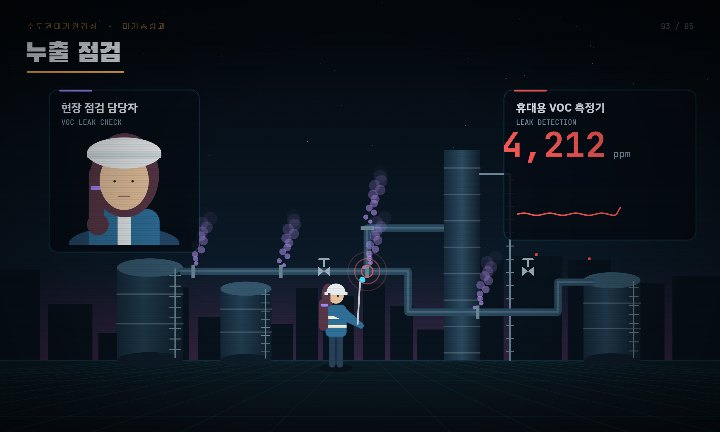
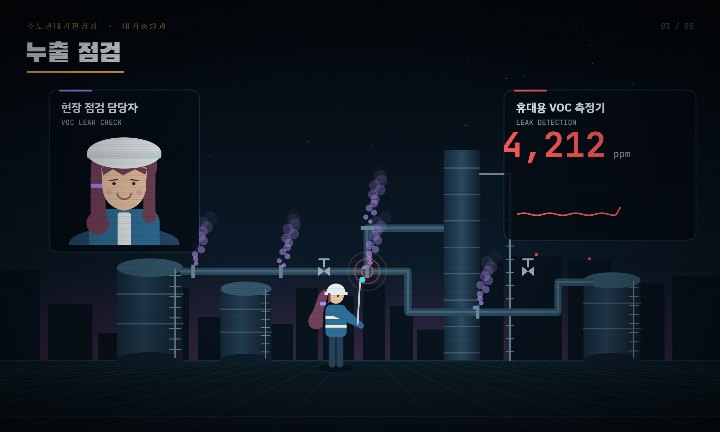
Make HAPs female inspector clearer

diff --git a/assets/site-v3.js b/assets/site-v3.js
@@ -9,13 +9,13 @@ function select(key,force=false){const topic=byTopic[key]||byTopic['sift-ms'],de
  tabs.forEach(tab=>{const active=tab.dataset.target===dept.id;tab.setAttribute('aria-selected',String(active));tab.tabIndex=active?0:-1});$('department-panel').setAttribute('aria-labelledby','tab-'+dept.id);$('topic-heading').textContent=dept.dept+' 업무 골라보기';
  if($('topic-list').dataset.dept!==dept.id){$('topic-list').dataset.dept=dept.id;$('topic-list').replaceChildren(...dept.topics.map((id,i)=>{const item=byTopic[id],b=document.createElement('button');b.className='topic';b.type='button';b.dataset.topic=id;b.innerHTML=`<span class="topic-no">0${i+1} / 30s</span><strong>${item.title}</strong><span class="topic-desc">${item.desc}</span><span class="topic-action">영상 보기 <span aria-hidden="true">↗</span></span>`;b.onclick=()=>{if(selected!==id)location.hash=id};return b}))}
  document.querySelectorAll('.topic').forEach(b=>b.setAttribute('aria-pressed',String(b.dataset.topic===topic.id)));
- frame.title=topic.title+' 30초 애니메이션';for(const id of['open-lesson','fallback-link'])$(id).href=topic.file+'?v=22';
- if(changed||force){loading();frame.src=topic.file+'?embed=1&v=22'}
+ frame.title=topic.title+' 30초 애니메이션';for(const id of['open-lesson','fallback-link'])$(id).href=topic.file+'?v=23';
+ if(changed||force){loading();frame.src=topic.file+'?embed=1&v=23'}
 }
 tabs.forEach((tab,i)=>{tab.onclick=()=>{location.hash=byDept[tab.dataset.target].topics[0]};tab.onkeydown=e=>{let next;if(e.key==='ArrowRight'||e.key==='ArrowLeft')next=(i+(e.key==='ArrowRight'?1:-1)+tabs.length)%tabs.length;else if(e.key==='Home')next=0;else if(e.key==='End')next=tabs.length-1;else return;e.preventDefault();tabs[next].focus();tabs[next].click()}});
 window.addEventListener('hashchange',()=>{if(location.hash!=='#lessons')select(resolve())});
 window.addEventListener('message',event=>{if(event.origin!==location.origin||event.source!==frame.contentWindow||event.data?.type!=='mamo-lesson-size')return;const h=Number(event.data.height);if(!Number.isFinite(h)||h<100||h>6000)return;frame.style.height=Math.ceil(h)+'px';clearTimeout(timer);$('loading').hidden=true;$('load-error').hidden=true;frame.hidden=false;$('viewer').setAttribute('aria-busy','false')});
-frame.addEventListener('load',()=>{const doc=frame.contentDocument;if(!doc||doc.getElementById('compact-player-style'))return;const link=doc.createElement('link');link.id='compact-player-style';link.rel='stylesheet';link.href='assets/compact-player.css?v=22';doc.head.append(link);const friendly=doc.createElement('link');friendly.rel='stylesheet';friendly.href='assets/friendly-player.css?v=22';doc.head.append(friendly);const reading=doc.createElement("link");reading.rel="stylesheet";reading.href="assets/readability.css?v=22";doc.head.append(reading)});
+frame.addEventListener('load',()=>{const doc=frame.contentDocument;if(!doc||doc.getElementById('compact-player-style'))return;const link=doc.createElement('link');link.id='compact-player-style';link.rel='stylesheet';link.href='assets/compact-player.css?v=23';doc.head.append(link);const friendly=doc.createElement('link');friendly.rel='stylesheet';friendly.href='assets/friendly-player.css?v=23';doc.head.append(friendly);const reading=doc.createElement("link");reading.rel="stylesheet";reading.href="assets/readability.css?v=23";doc.head.append(reading)});
 $('retry').onclick=()=>select(selected,true);select(resolve(),true);
 
 // 음성 해설: 영상(iframe)이 장면마다 보내는 음성을 이 창에서 재생한다.
@@ -27,4 +27,4 @@ window.addEventListener('message',e=>{if(e.origin!==location.origin||e.source!==
 frame.addEventListener('load',()=>voice.pause());window.addEventListener('hashchange',()=>voice.pause())})();
 
 // 읽기 모드 링크를 지금 보고 있는 업무로 맞춘다.
-(()=>{const a=document.getElementById('read-mode');if(!a)return;const sync=()=>{const id=location.hash.slice(1);a.href='m.html?v=22'+(id&&id!=='lessons'?'#'+(id==='emissions'?'integrated':id):'')};window.addEventListener('hashchange',sync);sync()})();
+(()=>{const a=document.getElementById('read-mode');if(!a)return;const sync=()=>{const id=location.hash.slice(1);a.href='m.html?v=23'+(id&&id!=='lessons'?'#'+(id==='emissions'?'integrated':id):'')};window.addEventListener('hashchange',sync);sync()})();

diff --git a/m.html b/m.html
@@ -88,12 +88,12 @@ button:focus-visible,a:focus-visible{outline:3px solid #3267a2;outline-offset:3p
   </section>
   <section class="film" aria-label="선택한 업무의 30초 영상">
     <div class="filmhead"><strong id="filmTitle">30초 영상</strong><a id="openVideo" href="sift-ms.html" target="_blank" rel="noopener">전체 화면으로 보기 ↗</a></div>
-    <iframe id="film" src="sift-ms.html?embed=1&amp;v=22" title="기획과 30초 영상" loading="eager"></iframe>
+    <iframe id="film" src="sift-ms.html?embed=1&amp;v=23" title="기획과 30초 영상" loading="eager"></iframe>
   </section>
   <nav class="more" aria-label="다음 업무" id="more"></nav>
   <p class="note">그림 속 지도·사업장·농도·측정값은 이해를 돕기 위한 예시입니다. 음성은 AI 합성 음성입니다.<br><a id="source" href="https://mcee.go.kr/mamo/web/index.do?menuId=656" target="_blank" rel="noopener">선택한 업무의 공식 자료 ↗</a></p>
 </main>
-<script src="assets/catalog.js?v=22"></script>
+<script src="assets/catalog.js?v=23"></script>
 
 <script>
 (() => {
@@ -112,11 +112,11 @@ function render(){let id=location.hash.slice(1);if(id==='inventory')id='mobile-a
  document.querySelectorAll('.dept').forEach(b=>{const on=b.dataset.dept===d.id;b.setAttribute('aria-selected',String(on));b.tabIndex=on?0:-1});
  $('chips').replaceChildren(...d.topics.map(tid=>{const b=document.createElement('button');b.className='chip';b.type='button';b.textContent=plain(byTopic[tid].title);b.setAttribute('aria-pressed',String(tid===id));b.onclick=()=>go(tid);return b}));
  $('deptName').textContent=d.dept;$('title').textContent=plain(t.title);$('desc').textContent=t.desc;$('source').href=t.source;
- $('filmTitle').textContent='30초 · '+plain(t.title);$('openVideo').href=t.file+'?v=22';frame.title=plain(t.title)+' 30초 영상';frame.src=t.file+'?embed=1&v=22';frame.style.height='710px';
+ $('filmTitle').textContent='30초 · '+plain(t.title);$('openVideo').href=t.file+'?v=23';frame.title=plain(t.title)+' 30초 영상';frame.src=t.file+'?embed=1&v=23';frame.style.height='710px';
  const nx=order[(order.indexOf(id)+1)%order.length],nt=byTopic[nx];$('more').replaceChildren();const a=document.createElement('a');a.className='next';a.href='#'+nx;a.innerHTML=`<small>다음 업무 · ${byDept[nt.dept].dept}</small><b></b>`;a.querySelector('b').textContent=plain(nt.title)+' →';$('more').append(a);
  window.scrollTo(0,0)
 }
-frame.addEventListener('load',()=>{const doc=frame.contentDocument;if(!doc)return;for(const name of ['compact-player.css','friendly-player.css','readability.css']){const link=doc.createElement('link');link.rel='stylesheet';link.href='assets/'+name+'?v=22';doc.head.append(link)}});
+frame.addEventListener('load',()=>{const doc=frame.contentDocument;if(!doc)return;for(const name of ['compact-player.css','friendly-player.css','readability.css']){const link=doc.createElement('link');link.rel='stylesheet';link.href='assets/'+name+'?v=23';doc.head.append(link)}});
 window.addEventListener('message',e=>{if(e.origin!==location.origin||e.source!==frame.contentWindow||e.data?.type!=='mamo-lesson-size')return;const h=Number(e.data.height);if(Number.isFinite(h)&&h>100&&h<6000)frame.style.height=Math.ceil(h)+'px'});
 window.addEventListener('hashchange',render);render();
 })();

diff --git a/haps.html b/haps.html
@@ -163,10 +163,10 @@ function person(x, y, s = 1, o = {}) { c.save(); c.translate(x, y); c.scale(o.fl
   else if (pose === 'tablet') { line(-8, -58, 14, -44, vest, 6); line(8, -58, 18, -46, vest, 6); box(10, -56, 20, 15, '#0d1b28', 3, A, 1.5); alpha(.6 + .4 * Math.sin(now * 5), () => c.fillRect(13, -53, 14, 9)) }
   else if (pose === 'probe') { line(-8, -58, 22, -44, vest, 6); line(8, -58, 26, -42, vest, 6) }
   else { line(-8, -58, -10 - sw * .6, -36, vest, 6); line(8, -58, 10 + sw * .6, -36, vest, 6) }
-  if (o.woman) { ell(-8, -74, 7, 12, '#593748'); box(-18, -70, 10, 29, '#593748', 5); circ(-13, -42, 5, '#593748'); box(-16, -65, 8, 3, '#a58bff', 2) }
+  if (o.woman) { c.fillStyle = '#75415a'; c.beginPath(); c.moveTo(-7, -80); c.bezierCurveTo(-22, -81, -19, -62, -27, -53); c.bezierCurveTo(-33, -42, -23, -34, -14, -41); c.bezierCurveTo(-12, -46, -15, -54, -12, -61); c.closePath(); c.fill(); box(-17, -67, 7, 4, '#a58bff', 2) }
   circ(0, -73, 8, '#e8c4a0'); if (o.helmet !== false) { c.fillStyle = o.hat || '#f5c542'; c.beginPath(); c.arc(0, -76, 10, Math.PI, 0); c.fill(); c.fillRect(-12, -77, 24, 3) }
-  if (o.woman) { line(-7, -75, -7, -67, '#593748', 2.5); circ(2, -73, 1, '#332927') }
   else { c.fillStyle = '#2a2320'; c.beginPath(); c.arc(0, -76, 9, Math.PI, 0); c.fill() }
+  if (o.woman) { line(-7, -75, -7, -67, '#75415a', 2.5); circ(2, -73, 1, '#332927') }
   c.lineCap = 'butt'; c.restore() }
 function van(x, y, s = 1, o = {}) { c.save(); c.translate(x, y); c.scale(s, s); const now = o.now || 0;
   if (o.beam) { c.globalCompositeOperation = 'lighter'; c.fillStyle = grad(300, 0, 700, 0, [[0, 'rgba(220,240,255,.28)'], [1, 'rgba(220,240,255,0)']]); poly([[300, -62], [740, -120], [740, 30], [300, -46]], c.fillStyle); c.globalCompositeOperation = 'source-over' }
@@ -315,13 +315,16 @@ function inspectorPortrait(u) {
     ell(207, 406, 92, 28, '#244969');
     box(148, 348, 118, 95, '#2f6f9a', 22);
     box(196, 354, 22, 56, '#e8edf0', 4);
-    ell(208, 292, 57, 70, '#593748');
-    box(148, 278, 25, 106, '#593748', 12);
-    circ(163, 374, 18, '#593748');
-    box(151, 310, 22, 7, '#a58bff', 3);
-    ell(207, 301, 41, 49, '#e8c4a0');
-    circ(191, 302, 2, '#332927'); circ(221, 302, 2, '#332927');
-    line(198, 327, 216, 327, '#9f6a62', 2);
+    ell(207, 276, 55, 43, '#75415a');
+    box(151, 274, 25, 105, '#75415a', 12); circ(163, 372, 19, '#75415a');
+    box(239, 274, 20, 92, '#75415a', 10); circ(249, 359, 12, '#75415a');
+    box(151, 306, 22, 7, '#a58bff', 3);
+    c.beginPath(); c.moveTo(169, 280); c.quadraticCurveTo(207, 266, 245, 280); c.lineTo(243, 317); c.quadraticCurveTo(237, 346, 207, 351); c.quadraticCurveTo(177, 346, 171, 317); c.closePath(); c.fillStyle = '#ecc5a5'; c.fill();
+    poly([[170, 281],[185, 270],[204, 281],[218, 270],[245, 282],[242, 291],[225, 282],[205, 292],[188, 282],[172, 292]], '#75415a');
+    line(183, 301, 196, 299, '#573646', 2); line(217, 299, 230, 301, '#573646', 2);
+    circ(190, 306, 2.7, '#332927'); circ(223, 306, 2.7, '#332927');
+    circ(181, 320, 5, 'rgba(218,130,128,.38)'); circ(232, 320, 5, 'rgba(218,130,128,.38)');
+    c.beginPath(); c.arc(207, 320, 12, .18, Math.PI - .18); c.strokeStyle = '#9e5b5a'; c.lineWidth = 2.5; c.stroke();
     ell(207, 255, 62, 26, '#e9eef0');
     box(145, 254, 124, 10, '#d4e0e5', 4);
     c.restore();

diff --git a/index.html b/index.html
@@ -7,9 +7,9 @@
   <meta name="description" content="첨단감시장비 활용 대기배출원관리와 굴뚝 시료 채취·분석. 수도권대기환경청 4개 과의 대표 업무를 애니메이션으로 만나보세요.">
   <title>첨단감시장비 활용 대기배출원관리 | 수도권대기환경청</title>
   <link rel="icon" href="assets/favicon.svg" type="image/svg+xml">
-  <link rel="stylesheet" href="assets/site.css?v=22"><link rel="stylesheet" href="assets/topics.css?v=22">
-  <script src="assets/catalog.js?v=22" defer></script><script src="assets/site-v3.js?v=22" defer></script>
-<link rel="stylesheet" href="assets/compact.css?v=22"><link rel="stylesheet" href="assets/friendly.css?v=22">
+  <link rel="stylesheet" href="assets/site.css?v=23"><link rel="stylesheet" href="assets/topics.css?v=23">
+  <script src="assets/catalog.js?v=23" defer></script><script src="assets/site-v3.js?v=23" defer></script>
+<link rel="stylesheet" href="assets/compact.css?v=23"><link rel="stylesheet" href="assets/friendly.css?v=23">
 <!-- Link preview: static metadata for KakaoTalk and social crawlers -->
 <meta property="og:type" content="website">
 <meta property="og:locale" content="ko_KR">
@@ -34,7 +34,7 @@
   <div class="site">
     <header class="topbar">
       <a class="brand" href="#sift-ms" aria-label="수도권대기환경청 업무 소개 메인으로">수도권대기환경청 업무 소개</a>
-      <a class="read-mode" id="read-mode" href="m.html?v=22">휴대폰 영상 보기</a><div class="agency"><img src="assets/mamo-logo.png" width="192" height="60" alt="기후에너지환경부 수도권대기환경청"></div>
+      <a class="read-mode" id="read-mode" href="m.html?v=23">휴대폰 영상 보기</a><div class="agency"><img src="assets/mamo-logo.png" width="192" height="60" alt="기후에너지환경부 수도권대기환경청"></div>
     </header>
 
     <main>

diff --git a/tools/cine/engine.js b/tools/cine/engine.js
@@ -116,10 +116,10 @@ function person(x, y, s = 1, o = {}) { c.save(); c.translate(x, y); c.scale(o.fl
   else if (pose === 'tablet') { line(-8, -58, 14, -44, vest, 6); line(8, -58, 18, -46, vest, 6); box(10, -56, 20, 15, '#0d1b28', 3, A, 1.5); alpha(.6 + .4 * Math.sin(now * 5), () => c.fillRect(13, -53, 14, 9)) }
   else if (pose === 'probe') { line(-8, -58, 22, -44, vest, 6); line(8, -58, 26, -42, vest, 6) }
   else { line(-8, -58, -10 - sw * .6, -36, vest, 6); line(8, -58, 10 + sw * .6, -36, vest, 6) }
-  if (o.woman) { ell(-8, -74, 7, 12, '#593748'); box(-18, -70, 10, 29, '#593748', 5); circ(-13, -42, 5, '#593748'); box(-16, -65, 8, 3, '#a58bff', 2) }
+  if (o.woman) { c.fillStyle = '#75415a'; c.beginPath(); c.moveTo(-7, -80); c.bezierCurveTo(-22, -81, -19, -62, -27, -53); c.bezierCurveTo(-33, -42, -23, -34, -14, -41); c.bezierCurveTo(-12, -46, -15, -54, -12, -61); c.closePath(); c.fill(); box(-17, -67, 7, 4, '#a58bff', 2) }
   circ(0, -73, 8, '#e8c4a0'); if (o.helmet !== false) { c.fillStyle = o.hat || '#f5c542'; c.beginPath(); c.arc(0, -76, 10, Math.PI, 0); c.fill(); c.fillRect(-12, -77, 24, 3) }
-  if (o.woman) { line(-7, -75, -7, -67, '#593748', 2.5); circ(2, -73, 1, '#332927') }
   else { c.fillStyle = '#2a2320'; c.beginPath(); c.arc(0, -76, 9, Math.PI, 0); c.fill() }
+  if (o.woman) { line(-7, -75, -7, -67, '#75415a', 2.5); circ(2, -73, 1, '#332927') }
   c.lineCap = 'butt'; c.restore() }
 function van(x, y, s = 1, o = {}) { c.save(); c.translate(x, y); c.scale(s, s); const now = o.now || 0;
   if (o.beam) { c.globalCompositeOperation = 'lighter'; c.fillStyle = grad(300, 0, 700, 0, [[0, 'rgba(220,240,255,.28)'], [1, 'rgba(220,240,255,0)']]); poly([[300, -62], [740, -120], [740, 30], [300, -46]], c.fillStyle); c.globalCompositeOperation = 'source-over' }

diff --git a/education.html b/education.html
@@ -163,8 +163,10 @@ function person(x, y, s = 1, o = {}) { c.save(); c.translate(x, y); c.scale(o.fl
   else if (pose === 'tablet') { line(-8, -58, 14, -44, vest, 6); line(8, -58, 18, -46, vest, 6); box(10, -56, 20, 15, '#0d1b28', 3, A, 1.5); alpha(.6 + .4 * Math.sin(now * 5), () => c.fillRect(13, -53, 14, 9)) }
   else if (pose === 'probe') { line(-8, -58, 22, -44, vest, 6); line(8, -58, 26, -42, vest, 6) }
   else { line(-8, -58, -10 - sw * .6, -36, vest, 6); line(8, -58, 10 + sw * .6, -36, vest, 6) }
+  if (o.woman) { c.fillStyle = '#75415a'; c.beginPath(); c.moveTo(-7, -80); c.bezierCurveTo(-22, -81, -19, -62, -27, -53); c.bezierCurveTo(-33, -42, -23, -34, -14, -41); c.bezierCurveTo(-12, -46, -15, -54, -12, -61); c.closePath(); c.fill(); box(-17, -67, 7, 4, '#a58bff', 2) }
   circ(0, -73, 8, '#e8c4a0'); if (o.helmet !== false) { c.fillStyle = o.hat || '#f5c542'; c.beginPath(); c.arc(0, -76, 10, Math.PI, 0); c.fill(); c.fillRect(-12, -77, 24, 3) }
   else { c.fillStyle = '#2a2320'; c.beginPath(); c.arc(0, -76, 9, Math.PI, 0); c.fill() }
+  if (o.woman) { line(-7, -75, -7, -67, '#75415a', 2.5); circ(2, -73, 1, '#332927') }
   c.lineCap = 'butt'; c.restore() }
 function van(x, y, s = 1, o = {}) { c.save(); c.translate(x, y); c.scale(s, s); const now = o.now || 0;
   if (o.beam) { c.globalCompositeOperation = 'lighter'; c.fillStyle = grad(300, 0, 700, 0, [[0, 'rgba(220,240,255,.28)'], [1, 'rgba(220,240,255,0)']]); poly([[300, -62], [740, -120], [740, 30], [300, -46]], c.fillStyle); c.globalCompositeOperation = 'source-over' }

diff --git a/fuel.html b/fuel.html
@@ -163,8 +163,10 @@ function person(x, y, s = 1, o = {}) { c.save(); c.translate(x, y); c.scale(o.fl
   else if (pose === 'tablet') { line(-8, -58, 14, -44, vest, 6); line(8, -58, 18, -46, vest, 6); box(10, -56, 20, 15, '#0d1b28', 3, A, 1.5); alpha(.6 + .4 * Math.sin(now * 5), () => c.fillRect(13, -53, 14, 9)) }
   else if (pose === 'probe') { line(-8, -58, 22, -44, vest, 6); line(8, -58, 26, -42, vest, 6) }
   else { line(-8, -58, -10 - sw * .6, -36, vest, 6); line(8, -58, 10 + sw * .6, -36, vest, 6) }
+  if (o.woman) { c.fillStyle = '#75415a'; c.beginPath(); c.moveTo(-7, -80); c.bezierCurveTo(-22, -81, -19, -62, -27, -53); c.bezierCurveTo(-33, -42, -23, -34, -14, -41); c.bezierCurveTo(-12, -46, -15, -54, -12, -61); c.closePath(); c.fill(); box(-17, -67, 7, 4, '#a58bff', 2) }
   circ(0, -73, 8, '#e8c4a0'); if (o.helmet !== false) { c.fillStyle = o.hat || '#f5c542'; c.beginPath(); c.arc(0, -76, 10, Math.PI, 0); c.fill(); c.fillRect(-12, -77, 24, 3) }
   else { c.fillStyle = '#2a2320'; c.beginPath(); c.arc(0, -76, 9, Math.PI, 0); c.fill() }
+  if (o.woman) { line(-7, -75, -7, -67, '#75415a', 2.5); circ(2, -73, 1, '#332927') }
   c.lineCap = 'butt'; c.restore() }
 function van(x, y, s = 1, o = {}) { c.save(); c.translate(x, y); c.scale(s, s); const now = o.now || 0;
   if (o.beam) { c.globalCompositeOperation = 'lighter'; c.fillStyle = grad(300, 0, 700, 0, [[0, 'rgba(220,240,255,.28)'], [1, 'rgba(220,240,255,0)']]); poly([[300, -62], [740, -120], [740, 30], [300, -46]], c.fillStyle); c.globalCompositeOperation = 'source-over' }

diff --git a/integrated.html b/integrated.html
@@ -163,8 +163,10 @@ function person(x, y, s = 1, o = {}) { c.save(); c.translate(x, y); c.scale(o.fl
   else if (pose === 'tablet') { line(-8, -58, 14, -44, vest, 6); line(8, -58, 18, -46, vest, 6); box(10, -56, 20, 15, '#0d1b28', 3, A, 1.5); alpha(.6 + .4 * Math.sin(now * 5), () => c.fillRect(13, -53, 14, 9)) }
   else if (pose === 'probe') { line(-8, -58, 22, -44, vest, 6); line(8, -58, 26, -42, vest, 6) }
   else { line(-8, -58, -10 - sw * .6, -36, vest, 6); line(8, -58, 10 + sw * .6, -36, vest, 6) }
+  if (o.woman) { c.fillStyle = '#75415a'; c.beginPath(); c.moveTo(-7, -80); c.bezierCurveTo(-22, -81, -19, -62, -27, -53); c.bezierCurveTo(-33, -42, -23, -34, -14, -41); c.bezierCurveTo(-12, -46, -15, -54, -12, -61); c.closePath(); c.fill(); box(-17, -67, 7, 4, '#a58bff', 2) }
   circ(0, -73, 8, '#e8c4a0'); if (o.helmet !== false) { c.fillStyle = o.hat || '#f5c542'; c.beginPath(); c.arc(0, -76, 10, Math.PI, 0); c.fill(); c.fillRect(-12, -77, 24, 3) }
   else { c.fillStyle = '#2a2320'; c.beginPath(); c.arc(0, -76, 9, Math.PI, 0); c.fill() }
+  if (o.woman) { line(-7, -75, -7, -67, '#75415a', 2.5); circ(2, -73, 1, '#332927') }
   c.lineCap = 'butt'; c.restore() }
 function van(x, y, s = 1, o = {}) { c.save(); c.translate(x, y); c.scale(s, s); const now = o.now || 0;
   if (o.beam) { c.globalCompositeOperation = 'lighter'; c.fillStyle = grad(300, 0, 700, 0, [[0, 'rgba(220,240,255,.28)'], [1, 'rgba(220,240,255,0)']]); poly([[300, -62], [740, -120], [740, 30], [300, -46]], c.fillStyle); c.globalCompositeOperation = 'source-over' }

diff --git a/inventory.html b/inventory.html
@@ -145,8 +145,10 @@ function person(x, y, s = 1, o = {}) { c.save(); c.translate(x, y); c.scale(o.fl
   else if (pose === 'tablet') { line(-8, -58, 14, -44, vest, 6); line(8, -58, 18, -46, vest, 6); box(10, -56, 20, 15, '#0d1b28', 3, A, 1.5); alpha(.6 + .4 * Math.sin(now * 5), () => c.fillRect(13, -53, 14, 9)) }
   else if (pose === 'probe') { line(-8, -58, 22, -44, vest, 6); line(8, -58, 26, -42, vest, 6) }
   else { line(-8, -58, -10 - sw * .6, -36, vest, 6); line(8, -58, 10 + sw * .6, -36, vest, 6) }
+  if (o.woman) { c.fillStyle = '#75415a'; c.beginPath(); c.moveTo(-7, -80); c.bezierCurveTo(-22, -81, -19, -62, -27, -53); c.bezierCurveTo(-33, -42, -23, -34, -14, -41); c.bezierCurveTo(-12, -46, -15, -54, -12, -61); c.closePath(); c.fill(); box(-17, -67, 7, 4, '#a58bff', 2) }
   circ(0, -73, 8, '#e8c4a0'); if (o.helmet !== false) { c.fillStyle = o.hat || '#f5c542'; c.beginPath(); c.arc(0, -76, 10, Math.PI, 0); c.fill(); c.fillRect(-12, -77, 24, 3) }
   else { c.fillStyle = '#2a2320'; c.beginPath(); c.arc(0, -76, 9, Math.PI, 0); c.fill() }
+  if (o.woman) { line(-7, -75, -7, -67, '#75415a', 2.5); circ(2, -73, 1, '#332927') }
   c.lineCap = 'butt'; c.restore() }
 function van(x, y, s = 1, o = {}) { c.save(); c.translate(x, y); c.scale(s, s); const now = o.now || 0;
   if (o.beam) { c.globalCompositeOperation = 'lighter'; c.fillStyle = grad(300, 0, 700, 0, [[0, 'rgba(220,240,255,.28)'], [1, 'rgba(220,240,255,0)']]); poly([[300, -62], [740, -120], [740, 30], [300, -46]], c.fillStyle); c.globalCompositeOperation = 'source-over' }

diff --git a/mobile-air.html b/mobile-air.html
@@ -145,8 +145,10 @@ function person(x, y, s = 1, o = {}) { c.save(); c.translate(x, y); c.scale(o.fl
   else if (pose === 'tablet') { line(-8, -58, 14, -44, vest, 6); line(8, -58, 18, -46, vest, 6); box(10, -56, 20, 15, '#0d1b28', 3, A, 1.5); alpha(.6 + .4 * Math.sin(now * 5), () => c.fillRect(13, -53, 14, 9)) }
   else if (pose === 'probe') { line(-8, -58, 22, -44, vest, 6); line(8, -58, 26, -42, vest, 6) }
   else { line(-8, -58, -10 - sw * .6, -36, vest, 6); line(8, -58, 10 + sw * .6, -36, vest, 6) }
+  if (o.woman) { c.fillStyle = '#75415a'; c.beginPath(); c.moveTo(-7, -80); c.bezierCurveTo(-22, -81, -19, -62, -27, -53); c.bezierCurveTo(-33, -42, -23, -34, -14, -41); c.bezierCurveTo(-12, -46, -15, -54, -12, -61); c.closePath(); c.fill(); box(-17, -67, 7, 4, '#a58bff', 2) }
   circ(0, -73, 8, '#e8c4a0'); if (o.helmet !== false) { c.fillStyle = o.hat || '#f5c542'; c.beginPath(); c.arc(0, -76, 10, Math.PI, 0); c.fill(); c.fillRect(-12, -77, 24, 3) }
   else { c.fillStyle = '#2a2320'; c.beginPath(); c.arc(0, -76, 9, Math.PI, 0); c.fill() }
+  if (o.woman) { line(-7, -75, -7, -67, '#75415a', 2.5); circ(2, -73, 1, '#332927') }
   c.lineCap = 'butt'; c.restore() }
 function van(x, y, s = 1, o = {}) { c.save(); c.translate(x, y); c.scale(s, s); const now = o.now || 0;
   if (o.beam) { c.globalCompositeOperation = 'lighter'; c.fillStyle = grad(300, 0, 700, 0, [[0, 'rgba(220,240,255,.28)'], [1, 'rgba(220,240,255,0)']]); poly([[300, -62], [740, -120], [740, 30], [300, -46]], c.fillStyle); c.globalCompositeOperation = 'source-over' }

diff --git a/network.html b/network.html
@@ -163,8 +163,10 @@ function person(x, y, s = 1, o = {}) { c.save(); c.translate(x, y); c.scale(o.fl
   else if (pose === 'tablet') { line(-8, -58, 14, -44, vest, 6); line(8, -58, 18, -46, vest, 6); box(10, -56, 20, 15, '#0d1b28', 3, A, 1.5); alpha(.6 + .4 * Math.sin(now * 5), () => c.fillRect(13, -53, 14, 9)) }
   else if (pose === 'probe') { line(-8, -58, 22, -44, vest, 6); line(8, -58, 26, -42, vest, 6) }
   else { line(-8, -58, -10 - sw * .6, -36, vest, 6); line(8, -58, 10 + sw * .6, -36, vest, 6) }
+  if (o.woman) { c.fillStyle = '#75415a'; c.beginPath(); c.moveTo(-7, -80); c.bezierCurveTo(-22, -81, -19, -62, -27, -53); c.bezierCurveTo(-33, -42, -23, -34, -14, -41); c.bezierCurveTo(-12, -46, -15, -54, -12, -61); c.closePath(); c.fill(); box(-17, -67, 7, 4, '#a58bff', 2) }
   circ(0, -73, 8, '#e8c4a0'); if (o.helmet !== false) { c.fillStyle = o.hat || '#f5c542'; c.beginPath(); c.arc(0, -76, 10, Math.PI, 0); c.fill(); c.fillRect(-12, -77, 24, 3) }
   else { c.fillStyle = '#2a2320'; c.beginPath(); c.arc(0, -76, 9, Math.PI, 0); c.fill() }
+  if (o.woman) { line(-7, -75, -7, -67, '#75415a', 2.5); circ(2, -73, 1, '#332927') }
   c.lineCap = 'butt'; c.restore() }
 function van(x, y, s = 1, o = {}) { c.save(); c.translate(x, y); c.scale(s, s); const now = o.now || 0;
   if (o.beam) { c.globalCompositeOperation = 'lighter'; c.fillStyle = grad(300, 0, 700, 0, [[0, 'rgba(220,240,255,.28)'], [1, 'rgba(220,240,255,0)']]); poly([[300, -62], [740, -120], [740, 30], [300, -46]], c.fillStyle); c.globalCompositeOperation = 'source-over' }

diff --git a/quota.html b/quota.html
@@ -163,8 +163,10 @@ function person(x, y, s = 1, o = {}) { c.save(); c.translate(x, y); c.scale(o.fl
   else if (pose === 'tablet') { line(-8, -58, 14, -44, vest, 6); line(8, -58, 18, -46, vest, 6); box(10, -56, 20, 15, '#0d1b28', 3, A, 1.5); alpha(.6 + .4 * Math.sin(now * 5), () => c.fillRect(13, -53, 14, 9)) }
   else if (pose === 'probe') { line(-8, -58, 22, -44, vest, 6); line(8, -58, 26, -42, vest, 6) }
   else { line(-8, -58, -10 - sw * .6, -36, vest, 6); line(8, -58, 10 + sw * .6, -36, vest, 6) }
+  if (o.woman) { c.fillStyle = '#75415a'; c.beginPath(); c.moveTo(-7, -80); c.bezierCurveTo(-22, -81, -19, -62, -27, -53); c.bezierCurveTo(-33, -42, -23, -34, -14, -41); c.bezierCurveTo(-12, -46, -15, -54, -12, -61); c.closePath(); c.fill(); box(-17, -67, 7, 4, '#a58bff', 2) }
   circ(0, -73, 8, '#e8c4a0'); if (o.helmet !== false) { c.fillStyle = o.hat || '#f5c542'; c.beginPath(); c.arc(0, -76, 10, Math.PI, 0); c.fill(); c.fillRect(-12, -77, 24, 3) }
   else { c.fillStyle = '#2a2320'; c.beginPath(); c.arc(0, -76, 9, Math.PI, 0); c.fill() }
+  if (o.woman) { line(-7, -75, -7, -67, '#75415a', 2.5); circ(2, -73, 1, '#332927') }
   c.lineCap = 'butt'; c.restore() }
 function van(x, y, s = 1, o = {}) { c.save(); c.translate(x, y); c.scale(s, s); const now = o.now || 0;
   if (o.beam) { c.globalCompositeOperation = 'lighter'; c.fillStyle = grad(300, 0, 700, 0, [[0, 'rgba(220,240,255,.28)'], [1, 'rgba(220,240,255,0)']]); poly([[300, -62], [740, -120], [740, 30], [300, -46]], c.fillStyle); c.globalCompositeOperation = 'source-over' }
